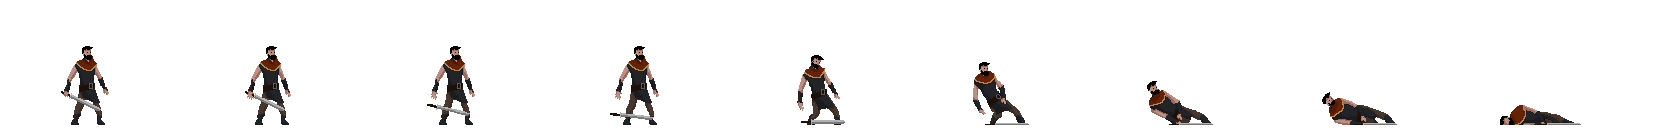
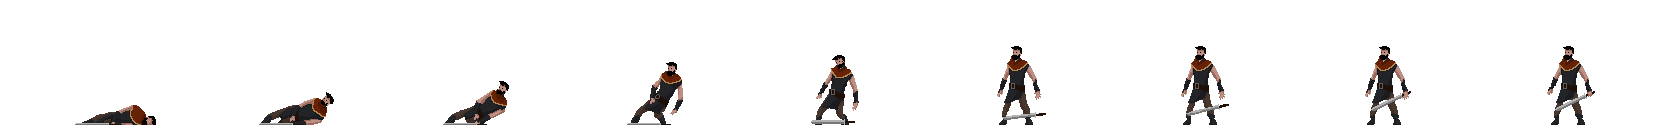
entity animations

diff --git a/js/class.js b/js/class.js
@@ -48,7 +48,8 @@ class Fighter extends Sprite{
                     scale = 1,
                     frames = 1,
                     offset={x:0, y:0},
-                    sprites
+                    sprites,
+                    attackBox = {offset: {}, width: undefined, height: undefined}
     }) {
         super({
             position,
@@ -74,9 +75,9 @@ class Fighter extends Sprite{
                 x: this.position.x,
                 y: this.position.y
             },
-            offset,
-            width: 100,
-            height: 50
+            offset: attackBox.offset,
+            width: attackBox.width,
+            height: attackBox.height
         }
         this.sprites = sprites
 
@@ -88,11 +89,11 @@ class Fighter extends Sprite{
 
     update() {
         this.draw()
-
         this.animateFrame()
 
         this.attackBox.position.x = this.position.x + this.attackBox.offset.x
         this.attackBox.position.y = this.position.y
+        ctx.fillRect(this.attackBox.position.x, this.attackBox.position.y, this.attackBox.width, this.attackBox.height)
 
         this.position.x += this.velocity.x
         this.position.y += this.velocity.y
@@ -110,6 +111,7 @@ class Fighter extends Sprite{
     }
 
     attack() {
+        this.switchSprite('attack')
         this.isAttacking = true
         setTimeout(() => {
             this.isAttacking = false
@@ -117,6 +119,7 @@ class Fighter extends Sprite{
     }
 
     switchSprite(sprite) {
+        if (this.image === this.sprites.attack.image && this.currentFrame < this.sprites.attack.frames-1) return
         switch (sprite) {
             case 'idle':
                 if (this.image !== this.sprites.idle.image){
@@ -143,6 +146,13 @@ class Fighter extends Sprite{
                 if (this.image !== this.sprites.fall.image){
                     this.image = this.sprites.fall.image
                     this.frames = this.sprites.fall.frames
+                    this.currentFrame = 0
+                }
+                break
+            case 'attack':
+                if (this.image !== this.sprites.attack.image){
+                    this.image = this.sprites.attack.image
+                    this.frames = this.sprites.attack.frames
                     this.currentFrame = 0
                 }
                 break

diff --git a/index.js b/index.js
@@ -58,8 +58,13 @@ const player = new Fighter({
         fall: {
             imageSource: './assets/player/Fall.png',
             frames: 2
+        },
+        attack: {
+            imageSource: './assets/player/Attack.png',
+            frames: 4
         }
-    }
+    },
+    
 })
 
 const enemy = new Fighter({
@@ -72,9 +77,34 @@ const enemy = new Fighter({
         y: 0
     },
     color: 'blue',
+    imageSource: './assets/enemy/Idle.png',
+    frames: 6,
+    scale: 2.9,
     offset: {
-        x: -50,
-        y: 0
+        x: 260,
+        y: 185
+    },
+    sprites: {
+        idle: {
+            imageSource: './assets/enemy/Idle.png',
+            frames: 6
+        },
+        run: {
+            imageSource: './assets/enemy/Run.png',
+            frames: 8
+        },
+        jump: {
+            imageSource: './assets/enemy/Jump.png',
+            frames: 2
+        },
+        fall: {
+            imageSource: './assets/enemy/Fall.png',
+            frames: 2
+        },
+        attack: {
+            imageSource: './assets/enemy/Attack.png',
+            frames: 4
+        }
     }
 })
 
@@ -101,7 +131,7 @@ function animate() {
     ctx.fillRect(0, 0, canvas.width, canvas.height)
     bg.update()
     player.update()
-    //enemy.update()
+    enemy.update()
     bg_wheel.draw()
 
     // Player Movement
@@ -127,8 +157,19 @@ function animate() {
     enemy.velocity.x = 0
     if (keys.ArrowLeft.pressed && enemy.lastKey === 'ArrowLeft' && enemy.position.x > 0) {
         enemy.velocity.x = -playerSpeed
+        enemy.switchSprite('run')
     } else if (keys.ArrowRight.pressed && enemy.lastKey === 'ArrowRight' && enemy.position.x < canvas.width-50){
         enemy.velocity.x = playerSpeed
+        enemy.switchSprite('run')
+    } else {
+        enemy.switchSprite('idle')
+    }
+
+    // Enemy Jump Animation
+    if (enemy.velocity.y < 0){
+        enemy.switchSprite('jump')
+    } else if (enemy.velocity.y > 0) {
+        enemy.switchSprite('fall')
     }
 
     // Player Collision Detection

diff --git a/style.css b/style.css
@@ -38,5 +38,6 @@
 }
 
 canvas{
-
+    height: 98vh;
+    width: 98vw;
 }
